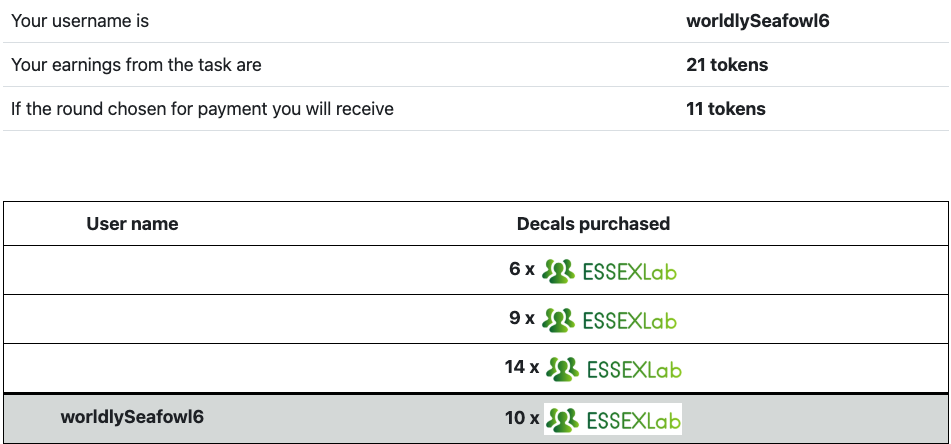
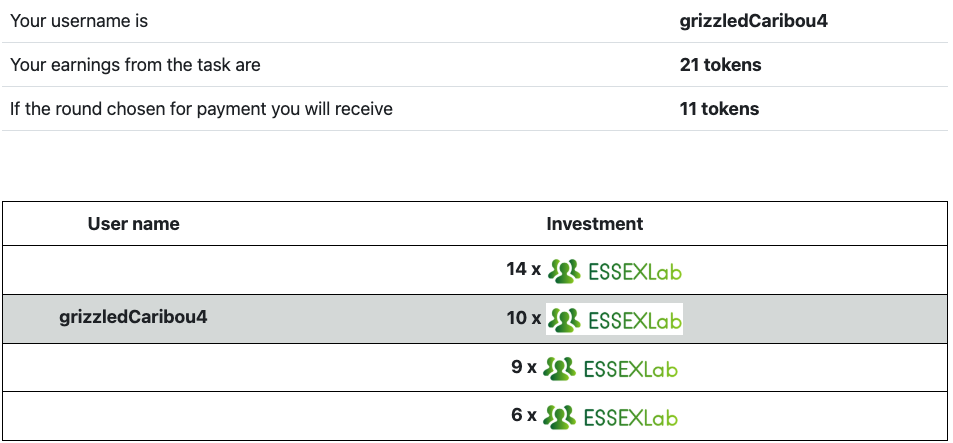
changing no vis treatment

diff --git a/CC_NoVisibility/TournamentResults.html b/CC_NoVisibility/TournamentResults.html
@@ -36,23 +36,22 @@
     <tr class="center">
         <td> <b>  </b> </td>
         <td> <b> User name </b> </td>
-        <td> <b> Decals purchased </b> </td>
+        <td> <b> Investment </b> </td>
     </tr>
-
 
 {% for p in tournament %}
     <tr class="center" >
+        {% if user_name == p.2 %}
+        <td style="background-color:#D9DDDC">  </td>
+        <td style="background-color:#D9DDDC"> <b> {{p.2}} </b> </td>
+        <td style="background-color:#D9DDDC"> <b> {{p.1}} x </b>  <img class="pic-center" width="20%" src="{{ static 'pictures/decal.png' }}"/> </td>
+        {% else %}
         <td>   </td>
-        <td> <b> </b> </td>
-        <td> <b>{{p.1}} x</b> <img class="pic-center" width="20%" src="{{ static 'pictures/decal.png' }}"/>   </td>
+        <td> <b>  </b> </td>
+        <td> <b> {{p.1}} x</b> <img class="pic-center" width="20%" src="{{ static 'pictures/decal.png' }}"/> </td>
+        {% endif %}
     </tr>
 {% endfor %}
-<tr class="center" style = "border-top: 3px solid black;">
-    <td style="background-color:#D9DDDC">  </td>
-    <td style="background-color:#D9DDDC"> <b> {{user_name}} </b> </td>
-    <td style="background-color:#D9DDDC"> <b> {{invest}} x  </b> <img class="pic-center" width="20%" src="{{ static 'pictures/decal.png' }}"/>  
-    </td>
-</tr>
 </table>
 
 <br>

diff --git a/CC_NoVisibility/Instructions.html b/CC_NoVisibility/Instructions.html
@@ -22,6 +22,7 @@ Welcome to the <b>ESSEXLab!</b> You have earned <b>£5 for showing up on time</b
 
 <h3> Structure of a Round </h3>
 
+Each round, you and three other random particpants will collect decorative objects called decals, and will compare collections.
 Each round consists of three stages, which are detailed below.
 
 <br>

diff --git a/CC_NoVisibility/__init__.py b/CC_NoVisibility/__init__.py
@@ -297,13 +297,53 @@ def set_ranking(group: Group):
     usernames = [0 for x in range(0,4)]
     ranks = [0 for x in range(0,4)]
 
-    k=0
+    investments = [0 for x in range(0,4)]
+    usernames = {}
+    i=0
     for p in players:
-        usernames[k] = p.user_name
-        investments[k] = p.invest
-        ranks[k] = p.id_in_group
-        k+=1
+        investments[i] = p.invest
+        i=i+1
 
+    investments = sorted(investments,reverse = True)
+
+    k=0
+    u = 0
+    group.invest1 = investments[k]
+    for p in players:
+        if p.invest == investments[k] and p.rank==0:
+            p.rank = k+1
+            usernames[u] = p.user_name
+            u=u+1
+
+    k=1
+    group.invest2 = investments[k]
+    for p in players:
+        if p.invest == investments[k] and p.rank==0:
+            p.rank = k+1
+            usernames[u] = p.user_name
+            u=u+1
+
+    k=2
+    group.invest3 = investments[k]
+    for p in players:
+        if p.invest == investments[k] and p.rank==0 :
+            p.rank = k+1
+            usernames[u] = p.user_name
+            u=u+1
+
+    k=3
+    group.invest4 = investments[k]
+    for p in players:
+        if p.invest == investments[k] and p.rank==0:
+            p.rank = k+1
+            usernames[u] = p.user_name
+            u=u+1
+    ranks = [0 for i in range(0,4)]
+    i=0
+    for p in players: 
+        ranks[i] = p.rank
+        i=i+1
+    ranks = sorted(ranks,reverse = False)
 
 
     group.user_name1 = usernames[0]
@@ -320,8 +360,6 @@ def set_ranking(group: Group):
     group.invest2 = investments[1]
     group.invest3 = investments[2]
     group.invest4 = investments[3]
-
-
 
 
 
@@ -426,12 +464,9 @@ class TournamentResults(Page):
         temp = [player.group.invest1, player.group.invest2, player.group.invest3, player.group.invest4]
         user_names = [player.group.user_name1, player.group.user_name2, player.group.user_name3, player.group.user_name4]
         ranks = [player.group.rank_1, player.group.rank_2, player.group.rank_3, player.group.rank_4]
-        tournament = [0 for x in range(0,3)]
-        k=0
+        tournament = [0 for x in range(0,4)]
         for i in range(0,4):
-            if ranks[i] != player.id_in_group:
-                tournament[k] = [ranks[i], temp[i], user_names[i]]
-                k+=1
+            tournament[i] = [ranks[i], temp[i], user_names[i]]
         payment = player.num_correct - player.invest
 
         return dict(
@@ -444,7 +479,7 @@ class TournamentResults(Page):
             round_number = player.round_number,
             num_rounds = Constants.num_rounds
             )
-
+        
     def before_next_page(player:Player, timeout_happened):
         if player.subsession.round_number == Constants.num_rounds:
             p = player.in_round(player.subsession.paying_round)
